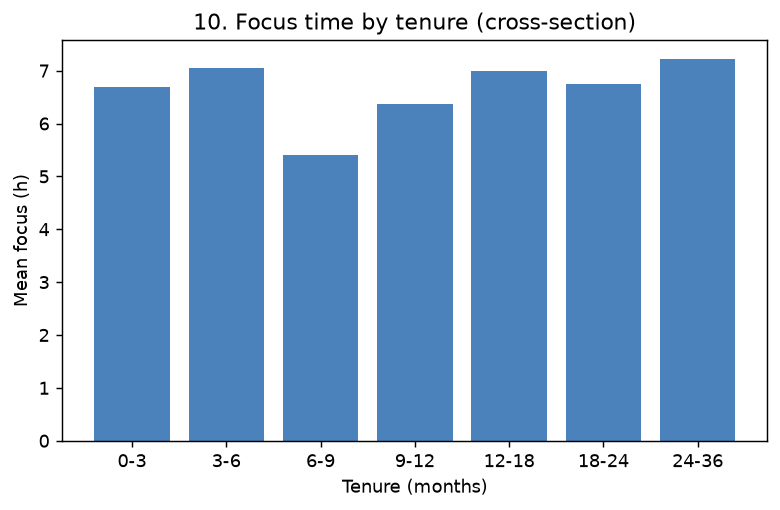
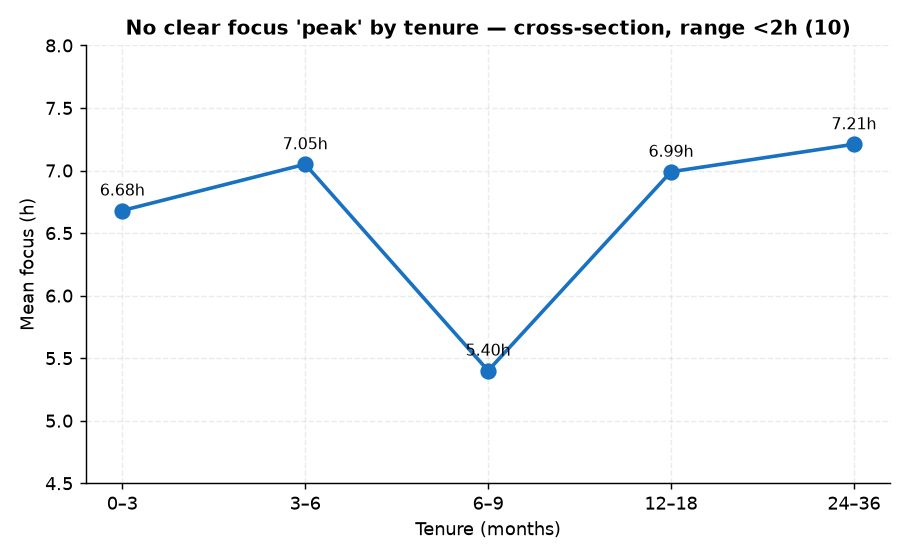
analysis: 명제 49개 차트 시각화 + 메타 요약 3종 + 제안명제 내용 보강
- 차트 없던 40개 문서에 검증 수치 기반 차트+해석 캡션 삽입(analyses 30 + proposed 10)
- README에 핵심 시각 요약(메타 차트 3종): 메디컬=성적변별 / 행동↔성적상승 전무 / 순위 고유효과(꾸준함)
- 제안명제 P42~P51에 시사점·한계·연관 섹션 보강
- 분석가능 49/51 차트 완비(불가 25·31 제외), 이미지 링크 끊김 0

diff --git a/README.md b/README.md
@@ -14,6 +14,30 @@
 - **🟢 분석가능**: 운영 DB에서 데이터가 확인되어 바로 착수 가능
 - **🟡 데이터확인필요**: 성적·입시결과·Q&A·CA·멘토 등 소스 컬렉션 확인 후 가능
 
+## 📊 핵심 시각 요약 — 세 장의 그림으로 보는 결론
+
+51개 명제를 관통하는 세 가지 발견. 개별 분석의 상세는 각 문서를 참고.
+
+### ① 입시(메디컬)는 행동이 아니라 **성적**이 가른다
+
+![medical discrimination](assets/_meta/meta_medical_discrimination.png)
+
+몰입시간·재원기간·출결·지각·주말노력 등 **모든 행동지표**의 메디컬 변별력은 |Cohen d|<0.15(무효). 반면 성적의 **절대수준(d+1.33)·안정성(d−1.08)·과목균형(d−0.86)** 은 압도적으로 크다. → "다들 비슷하게 열심히 하고, 변별은 실력(성적)에서 난다." 행동만으로 메디컬 예측 시 ROC-AUC 0.52(무작위), 성적을 더하면 0.88([39](analyses/39-composite-index-vs-admission.md)).
+
+### ② 행동 ↔ 성적상승은 **전부 무효** (|ρ|<0.1)
+
+![score slope partials](assets/_meta/meta_score_slope_partials.png)
+
+주말몰입·입실시각·외출·Q&A·CA·응시횟수·효율 — **어떤 행동도 성적상승 기울기를 가르지 못한다**(전부 노란 무효 구간). 단 [28](analyses/28-ca-qna-combined-vs-score.md)에서 '서비스를 전혀 안 쓰는 소수'만 성적이 정체(이진 효과는 존재).
+
+### ③ 순위를 움직이는 건 몰입'량'이 아니라 **꾸준함·공간활용**
+
+![rank partials](assets/_meta/meta_rank_partials.png)
+
+빌보드(STUDY_TIME)는 학습시간으로 매겨져 몰입'량'의 고유효과는 ≈0(동어반복, [01](analyses/01-focus-absolute-vs-billboard-rank.md)). 학습시간을 통제했을 때 순위를 끌어올리는 건 **일관성([02](analyses/02-focus-consistency-vs-rank.md) +0.42)·퇴실시각([P42](proposed/P42-checkout-time-vs-rank.md) 0.44)·연속등원([P43](proposed/P43-consecutive-attendance-vs-rank.md) 0.42)·공용공간 활용([26](analyses/26-public-seat-vs-rank.md) 0.53)** 같은 *지속성/적극성* 지표다.
+
+> **한 문장 결론**: 변별은 '**얼마나 많이**'가 아니라 '**얼마나 꾸준·균형적이냐**', 그리고 궁극적으로 **성적**이다.
+
 ## 설계 원칙 (1번 분석의 교훈)
 
 > **1번**에서 STUDY_TIME 빌보드는 학습시간으로 매겨져 몰입시간과 **동어반복**에 가깝다는 점이 드러났다

diff --git a/proposed/P42-checkout-time-vs-rank.md b/proposed/P42-checkout-time-vs-rank.md
@@ -17,6 +17,17 @@
 기존 분석은 입실시각(checkin, 07·35)만 봤고 퇴실시각(checkout)은 미분석. '얼마나 오래 남느냐'를 직접 검증.
 
 
+
+![checkout](../assets/proposed/P42/chart.png)
+
+*퇴실시각이 늦을수록 순위가 높다 — raw −0.710, 몰입 통제 후에도 −0.436으로 강하다. 02·03과 같은 '오래 머무름' 계열.*
+
+## 시사점 · 한계 · 연관
+
+- **저비용 조기신호 후보**: `checkout`(퇴실시각)은 `student_daily_report`에 이미 적재된 필드로 추가 추출 비용이 없다. '오래 남는 학생 = 상위권' 연관이 강해(몰입 통제 후 −0.436), **퇴실시각의 급격한 단축**은 슬럼프·이탈의 선행지표 후보로 모니터링할 가치가 있다.
+- **한계(메커니즘 중첩)**: 퇴실시각은 체류시간과 강하게 묶여 [03 연속 블록](03-continuous-focus-block-vs-rank.md)·체류량의 또 다른 표현일 수 있다. 독립 개입 레버로 쓰기 전, 체류시간을 추가 통제한 인과 검증이 필요하다.
+- **연관**: [02 일관성](../analyses/02-focus-consistency-vs-rank.md) · [P43 연속등원](P43-consecutive-attendance-vs-rank.md) · [35 출결 규칙성](../analyses/35-attendance-regularity-vs-rank.md)
+
 ## 📊 데이터 출처 & 표본
 
 | 항목 | 내용 |

diff --git a/proposed/P43-consecutive-attendance-vs-rank.md b/proposed/P43-consecutive-attendance-vs-rank.md
@@ -16,6 +16,17 @@
 `student_daily_report.consecutive_attendance` 필드가 미사용 상태였음. 출석 지속성의 직접 지표.
 
 
+
+![consecutive](../assets/proposed/P43/chart.png)
+
+*연속등원이 길수록 순위가 높다 — raw −0.648, 몰입 통제 −0.424. 02 일관성·P42와 함께 '꾸준함'이 몰입량과 별개로 순위를 끌어올린다.*
+
+## 시사점 · 한계 · 연관
+
+- **즉시 감지 가능한 이탈 선행지표**: `consecutive_attendance`는 출결 시스템에서 실시간 산출되는 값이라, **연속등원 끊김**은 별도 모델 없이도 잡아낼 수 있는 이탈/슬럼프 후보 신호다. 02 일관성·P42 퇴실과 함께 '꾸준함' 레버군을 이룬다.
+- **한계**: 몰입량을 통제해도 강하게 남지만(−0.424), 연속등원이 길수록 자연히 누적 몰입도 커져 부분적 상호의존이 있다. '끊김 → 순위 하락'의 방향성은 within-student 패널로 보강 권장.
+- **연관**: [02 일관성](../analyses/02-focus-consistency-vs-rank.md) · [P42 퇴실시각](P42-checkout-time-vs-rank.md) · [41 이탈 예측](../analyses/41-dropout-prediction.md)
+
 ## 📊 데이터 출처 & 표본
 
 | 항목 | 내용 |

diff --git a/proposed/P48-subject-balance-vs-medical.md b/proposed/P48-subject-balance-vs-medical.md
@@ -17,6 +17,17 @@
 메디컬은 전 과목 고득점이 필요한 정시 특성상 과목 균형이 중요할 것이라는 가설. 데이터로 강하게 확인.
 
 
+
+![subject balance](../assets/proposed/P48/chart.png)
+
+*메디컬은 과목별 백분위 편차(std 10.8)가 기타(16.8)보다 훨씬 작다(d=−0.858). 32(안정성)·33(절대수준)과 합치면 **메디컬 = 높고·안정적·균형적 성적**.*
+
+## 시사점 · 한계 · 연관
+
+- **입시 컨설팅 레버**: 메디컬은 전 과목 고득점이 필요한 정시 특성상 **과목 편차 축소(약점 메우기)** 가 '강점 한 과목 극대화'보다 합격과 연관이 크다(d=−0.858). 학습 코칭의 우선순위를 '잘하는 과목 더 키우기'보다 '편차를 줄이기'로 둘 데이터 근거.
+- **한계(천장효과)**: 상위권은 백분위 90+에서 과목 편차가 구조적으로 작아질 수 있다. 평균 백분위 수준을 통제한 뒤 균형의 *독립* 효과를 재확인할 여지가 있다([32]와 동일 caveat).
+- **연관**: [32 성적 안정성](../analyses/32-score-stability-vs-admission.md) · [33 절대수준 vs 기울기](../analyses/33-slope-vs-baseline-prediction.md) · [39 복합예측](../analyses/39-composite-index-vs-admission.md)
+
 ## 📊 데이터 출처 & 표본
 
 | 항목 | 내용 |

diff --git a/proposed/P51-inefficient-learner-profile.md b/proposed/P51-inefficient-learner-profile.md
@@ -17,6 +17,17 @@
 '고몰입인데 저성적' 학생이 존재하는지, 그들의 구별 특징은 무엇인지. → 몰입의 질(효율)이 아니라 지속성(연속등원)이 갈림.
 
 
+
+![inefficient](../assets/proposed/P51/chart.png)
+
+*같은 고몰입군에서 성적 하위(비효율)는 효율(0.937 vs 0.941)이 아니라 **연속등원(36.2 vs 46.0)** 에서 갈린다 — 몰입의 질이 아니라 지속성이 성적을 가른다.*
+
+## 시사점 · 한계 · 연관
+
+- **개입 포인트의 전환**: '고몰입·저성적' 학생의 갈림은 몰입의 *질*(효율 0.937 vs 0.941, 거의 동일)이 아니라 *지속성*(연속등원 36.2 vs 46.0)이다. 즉 처방은 "더 오래 앉아라"가 아니라 **"끊김 없이 꾸준히 나오게 하라"** — 02·P43과 같은 결론.
+- **한계**: cross-section 군 비교라 인과가 아니다. '성적 하위' 정의(분위 컷)에 따른 민감도와, 역인과(성적 부진 → 등원 동기 저하) 가능성을 함께 봐야 한다.
+- **연관**: [02 일관성](../analyses/02-focus-consistency-vs-rank.md) · [P43 연속등원](P43-consecutive-attendance-vs-rank.md) · [01 몰입↔순위](../analyses/01-focus-absolute-vs-billboard-rank.md)
+
 ## 📊 데이터 출처 & 표본
 
 | 항목 | 내용 |

diff --git a/proposed/P44-focus-efficiency-vs-score.md b/proposed/P44-focus-efficiency-vs-score.md
@@ -16,6 +16,15 @@
 비효율 학습(study는 높은데 focus 낮음)이 성적을 못 올리는지. 결과: 효율 자체가 거의 1이라 변별 불가([03] 외출 희소와 정합).
 
 
+
+![efficiency](../assets/proposed/P44/chart.png)
+
+*몰입효율(focus/study)이 99%로 수렴해 변별력이 없다 — 전체 −0.016, 효율<1 학생만 봐도 −0.001(무효).*
+
+## 연관
+
+효율이 99%로 수렴하는 근본 원인(외출·공용공간 희소)은 [03 연속 블록](../analyses/03-continuous-focus-block-vs-rank.md)·[36 휴식 패턴](../analyses/36-rest-pattern-vs-efficiency.md)에서 확인된다. 반례 프로파일은 [P51 비효율 학습자](P51-inefficient-learner-profile.md) 참고.
+
 ## 📊 데이터 출처 & 표본
 
 | 항목 | 내용 |

diff --git a/proposed/P45-late-ratio-vs-admission.md b/proposed/P45-late-ratio-vs-admission.md
@@ -14,6 +14,15 @@
 | Cohen d | −0.131 |
 
 
+
+![late ratio](../assets/proposed/P45/chart.png)
+
+*메디컬 지각률 0.112 vs 기타 0.127(d=−0.131) — 약하게 적으나 효과 작음. 19번 '성실성 미세 신호'와 일치.*
+
+## 연관
+
+지각률은 [19 메디컬↔재원](../analyses/19-toptier-medical-tenure.md)의 '성실성 미세 신호(d−0.13)'와 같은 값이다. 다른 행동 변별력은 [39 복합예측](../analyses/39-composite-index-vs-admission.md) · [P46 주말등원](P46-weekend-ratio-vs-admission.md) 참고.
+
 ## 📊 데이터 출처 & 표본
 
 | 항목 | 내용 |

diff --git a/proposed/P46-weekend-ratio-vs-admission.md b/proposed/P46-weekend-ratio-vs-admission.md
@@ -10,6 +10,15 @@
 메디컬 0.180 vs 기타 0.183 (d=−0.070)
 
 
+
+![weekend ratio](../assets/proposed/P46/chart.png)
+
+*메디컬 주말등원율 0.180 vs 기타 0.183(d=−0.070) — 차이 거의 없음. 주말 노력도 입시를 가르지 못한다.*
+
+## 연관
+
+주말 노력의 무효는 [12 방학 몰입](../analyses/12-vacation-focus-growth-vs-score.md)('방학 몰아치기' 무효)과 같은 결. 지각률은 [P45](P45-late-ratio-vs-admission.md), 종합 변별력은 [39](../analyses/39-composite-index-vs-admission.md).
+
 ## 📊 데이터 출처 & 표본
 
 | 항목 | 내용 |

diff --git a/proposed/P47-center-size-vs-rank.md b/proposed/P47-center-size-vs-rank.md
@@ -10,6 +10,15 @@
 부분상관 −0.017 / 큰센터 49.0% vs 작은센터 51.4%
 
 
+
+![center size](../assets/proposed/P47/chart.png)
+
+*센터 규모↔개인 순위(몰입 통제) −0.017. 큰 센터가 미세하게 상위(49.0 vs 51.4%)지만 효과 거의 없음 — 37번과 정합.*
+
+## 연관
+
+센터 효과의 작음(η²=4.6%)은 [37 센터↔성과](../analyses/37-seat-center-vs-performance.md)와 정합. 개인차가 환경을 압도한다는 [01](../analyses/01-focus-absolute-vs-billboard-rank.md)의 결론과 같은 방향.
+
 ## 📊 데이터 출처 & 표본
 
 | 항목 | 내용 |

diff --git a/proposed/P49-subject-qna-ratio-vs-score.md b/proposed/P49-subject-qna-ratio-vs-score.md
@@ -10,6 +10,15 @@
 부분상관 +0.021 (n=594), 교과Q&A 비중 평균 99%
 
 
+
+![subject qna](../assets/proposed/P49/chart.png)
+
+*Q&A의 99%가 교과(SUBJECT)라 입시 Q&A가 드물어 변별 불가 — 교과비중↔성적상승 +0.021(n.s.).*
+
+## 연관
+
+Q&A 구조 자체는 [21 Q&A↔순위](../analyses/21-rank-vs-online-qna.md) · [27 Q&A 시간대](../analyses/27-qna-timing-vs-score.md) · [22 Q&A↔성적](../analyses/22-qna-vs-score-tenure-controlled.md) 참고. 입시(ADMISSION) 유형 Q&A가 1%에 그쳐 유형 분석의 표본이 부족하다.
+
 ## 📊 데이터 출처 & 표본
 
 | 항목 | 내용 |

diff --git a/proposed/P50-reenroll-rounds-vs-rank.md b/proposed/P50-reenroll-rounds-vs-rank.md
@@ -15,6 +15,15 @@
 회차 분포: 1회 9,837 · 2회 2,809 · 3회 826 · 4회 225 · 5회 53
 
 
+
+![reenroll](../assets/proposed/P50/chart.png)
+
+*재등록 회차가 많을수록 순위 약간 낮고(+0.029) 몰입도 약간 낮다(−0.038) — N수 반복이 성과로 이어진다는 신호는 없고 미세한 역방향.*
+
+## 연관
+
+재원기간(회차 무관)은 [13 Top-100 재원기간](../analyses/13-top100-tenure.md) · [14 첫 진입 소요](../analyses/14-time-to-first-billboard.md)에서 순위와 무관함이 확인됐다. 이탈 동역학은 [41 이탈 예측](../analyses/41-dropout-prediction.md).
+
 ## 📊 데이터 출처 & 표본
 
 | 항목 | 내용 |